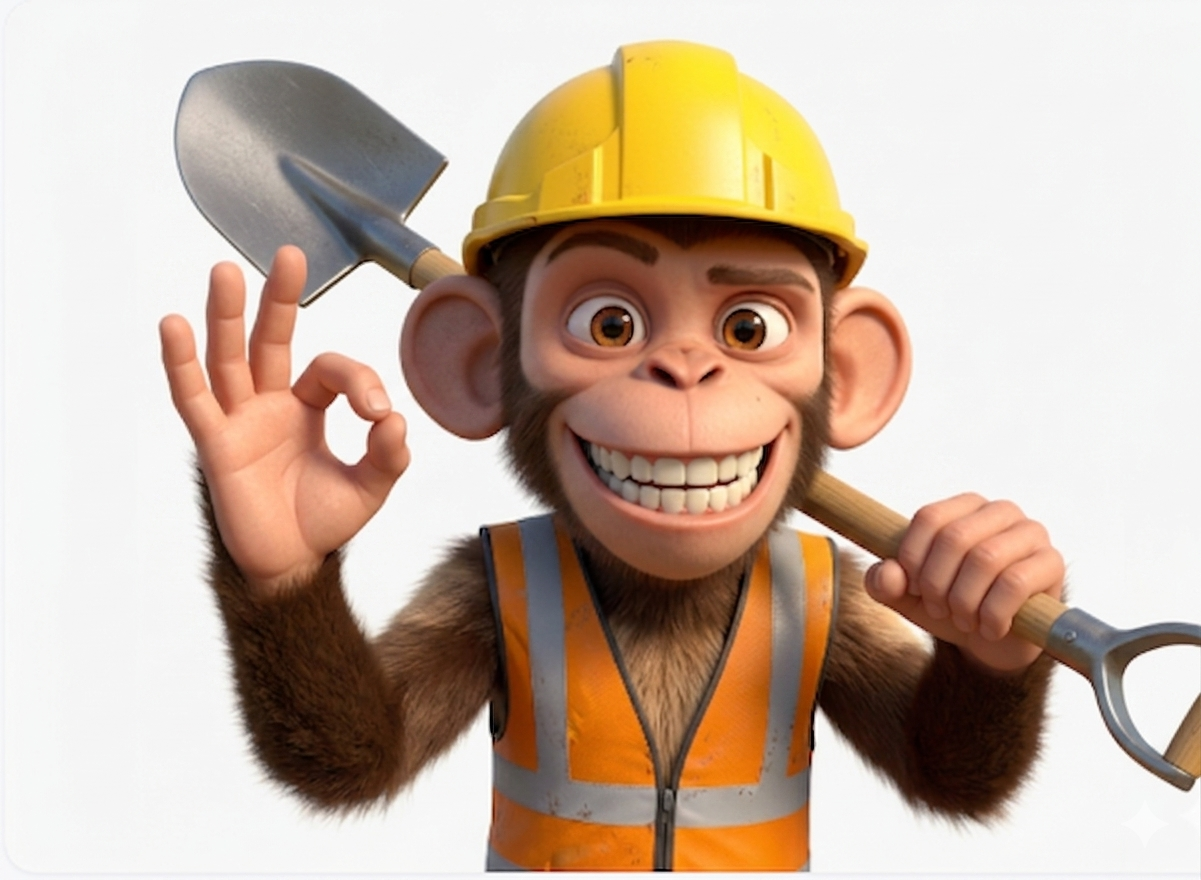
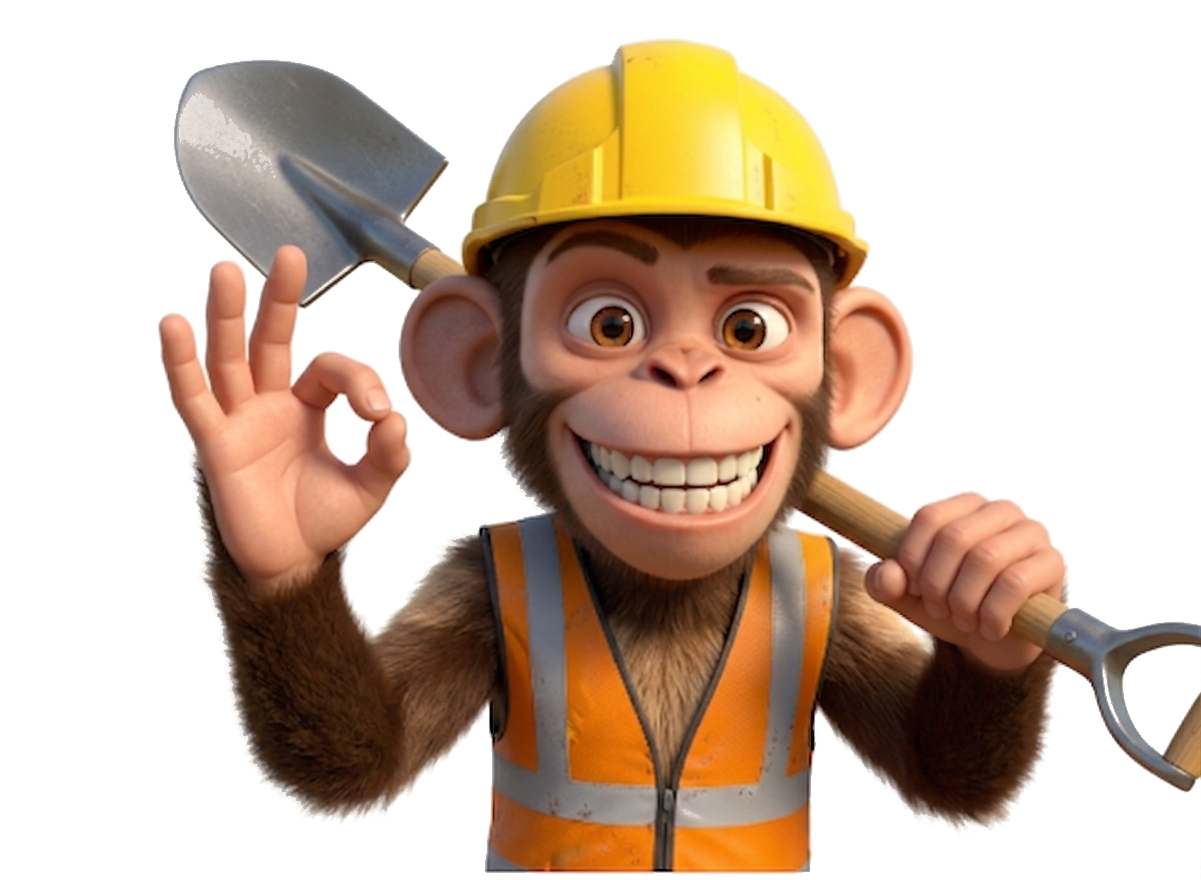
Make hero monkey big and prominent with transparent background
- Remove white bg from monkey PNG using colour-threshold + feathering
- Give monkey its own 360px grid column in the hero (was 200px nested)
- Hero switches from 2-col to 3-col: [text][monkey 360px][dashboard]
- Side padding reduced 192→112px so all three columns have breathing room
- Hero uses align-items:end so monkey stands on the section floor
- Text column re-centred with align-self:center
- drop-shadow filter gives monkey depth against the page background

https://claude.ai/code/session_01NRkmBjRx3w1jHJM9JLRAVd

diff --git a/app/studio-marketing.css b/app/studio-marketing.css
@@ -119,34 +119,28 @@
 
 /* --- Hero ---------------------------------------------------- */
 .st-hero {
-  padding: 80px 192px 64px;
+  padding: 80px 112px 0;
   display: grid;
-  grid-template-columns: 1fr 1.25fr;
-  gap: 48px;
-  align-items: center;
+  grid-template-columns: 1fr 360px 1.1fr;
+  gap: 40px;
+  align-items: end;
   background:
     radial-gradient(ellipse 80% 60% at 80% 0%, var(--st-blue-soft) 0%, transparent 60%),
     radial-gradient(ellipse 60% 50% at 0% 100%, var(--st-orange-soft) 0%, transparent 60%),
     var(--st-bg);
   border-bottom: 1px solid var(--st-divider);
 }
-.st-hero__right {
-  display: grid;
-  grid-template-columns: 200px 1fr;
-  gap: 24px;
-  align-items: center;
-  min-width: 0;
-}
+.st-hero > :first-child { align-self: center; padding-bottom: 80px; }
 .st-hero__monkey {
   display: flex;
-  align-items: center;
+  align-items: flex-end;
   justify-content: center;
 }
 .st-hero__monkey img {
   width: 100%;
   height: auto;
   object-fit: contain;
-  filter: drop-shadow(0 12px 24px rgba(12,20,38,0.18));
+  filter: drop-shadow(0 16px 32px rgba(12,20,38,0.20));
 }
 .st-hero__eyebrow {
   display: inline-flex;
@@ -222,6 +216,8 @@
 /* --- Hero product preview ------------------------------------ */
 .st-preview {
   position: relative;
+  align-self: center;
+  margin-bottom: 40px;
   background: var(--st-chrome);
   border: 1px solid var(--st-divider);
   border-radius: 16px;

diff --git a/app/InputForm.jsx b/app/InputForm.jsx
@@ -618,11 +618,12 @@ function InputForm({ onSubmit }) {
           </div>
         </div>
 
-        {/* Product preview + monkey */}
-        <div className="st-hero__right">
+        {/* Monkey mascot */}
         <div className="st-hero__monkey">
           <img src="app/assets/monkey-brief.png" alt="Trench Monkey mascot" />
         </div>
+
+        {/* Product preview */}
         <div className="st-preview">
           <div className="st-preview__chrome">
             <span className="dot" /><span className="dot" /><span className="dot" />
@@ -717,7 +718,6 @@ function InputForm({ onSubmit }) {
             <span className="ic">↑</span>
             Share of voice <span className="pct">+11.4%</span>
           </div>
-        </div>
         </div>
       </section>
 
